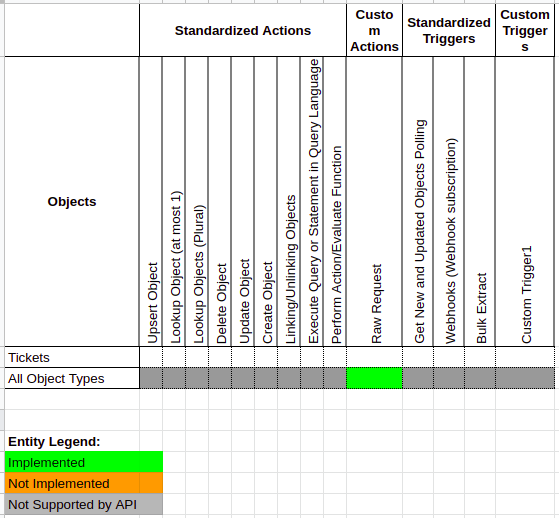
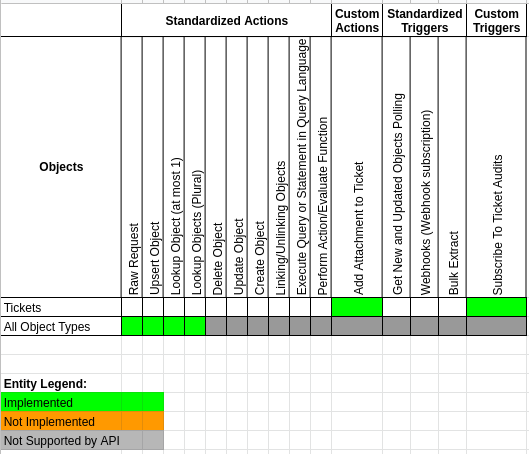
Zendesk article

diff --git a/content/_components/zendesk/index.md b/content/_components/zendesk/index.md
@@ -46,10 +46,6 @@ The component uses [Password Grant type](https://support.zendesk.com/hc/en-us/ar
  * **Size of Polling Page** - TextField (optional, positive integer, defaults to 1000): Indicates the size of pages to be fetched
  * **Single Page per Interval** - Checkbox: Indicates that if the number of changed records exceeds the maximum number of results in a page, instead of fetching the next page immediately, wait until the next flow start to fetch the next page
 
-#### Output Metadata
-
-[Array of items](/lib/schemas/subscribeToTicketAudits.out.json)
-
 ## Actions
 
 ### Lookup Object By Id
@@ -67,6 +63,7 @@ This action allows you to search objects by unique ID
 * **Linked Objects To Populate** - Multi-Select Dropdown (optional, no objects selected by default): Select which linked objects to fetch.
 
 **Available options to select:**
+
 <details closed markdown="block">
 <summary>
 Click to expand
@@ -132,9 +129,6 @@ Sorting is available on the following fields:
 
 * Search terms (optional) - Allow making search between objects. [Search term fields](/lib/actions/utils/lookupObjects/searchTerm.js)
 
-#### Output Metadata
-[Object containing array of items](/lib/schemas/ticketMetadata.out.json)
-
 ### Make Raw Request
 
 #### Config Fields
@@ -165,10 +159,6 @@ Dynamically generated:
 * `ID (optional)` - if filled and the object was found by this id - the object will be updated will create the new one in another case.
 * Inputs for all object fields: [system](/lib/schemas/ticketMetadata.in.json) and dynamically generated custom fields
 
-#### Output Metadata
-
-[Tickets fields](/lib/schemas/ticketMetadata.out.json)
-
 ### Add Attachment to Ticket
 
 #### Input Metadata
@@ -182,7 +172,3 @@ Dynamically generated:
   - Attachment Url (String URL, required): URL to attachment within platform storage
   - Filename (string, required): Filename that Zendesk should use for the attachment
   - Connent Type (string, optional: default to application/binary): Content type to save in ZenDesk
-
-#### Output Metadata
-
-[Tickets fields](/lib/schemas/ticketMetadata.out.json)

diff --git a/content/_components/zendesk/technical-notes.md b/content/_components/zendesk/technical-notes.md
@@ -16,13 +16,15 @@ ComponentVersion: 1.0.0
 * Initial release
 
 * Add new actions:
+
 - `Lookup Object By Id`
 - `Lookup Objects`
 - `Make Raw Request`
 - `Upsert Object By Id`
 - `Add Attachment to Ticket`
 
-* Add new triggers:
+* Add new trigger:
+
 - `Subscribe To Ticket Audits`
 
 ## Completeness Matrix
